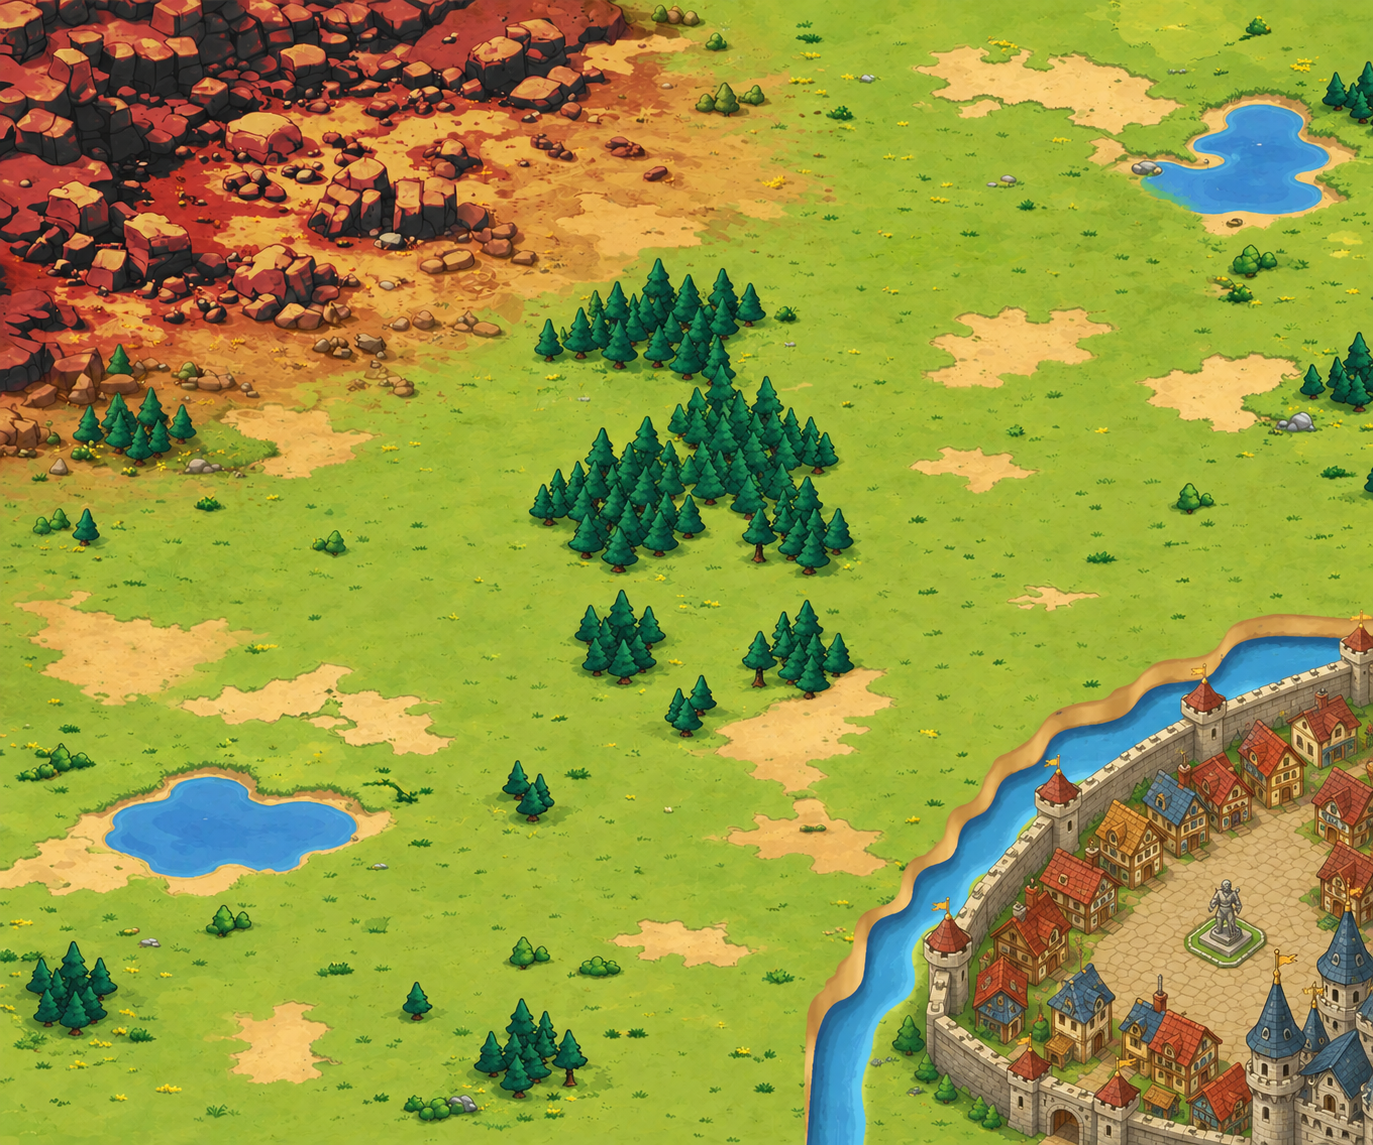
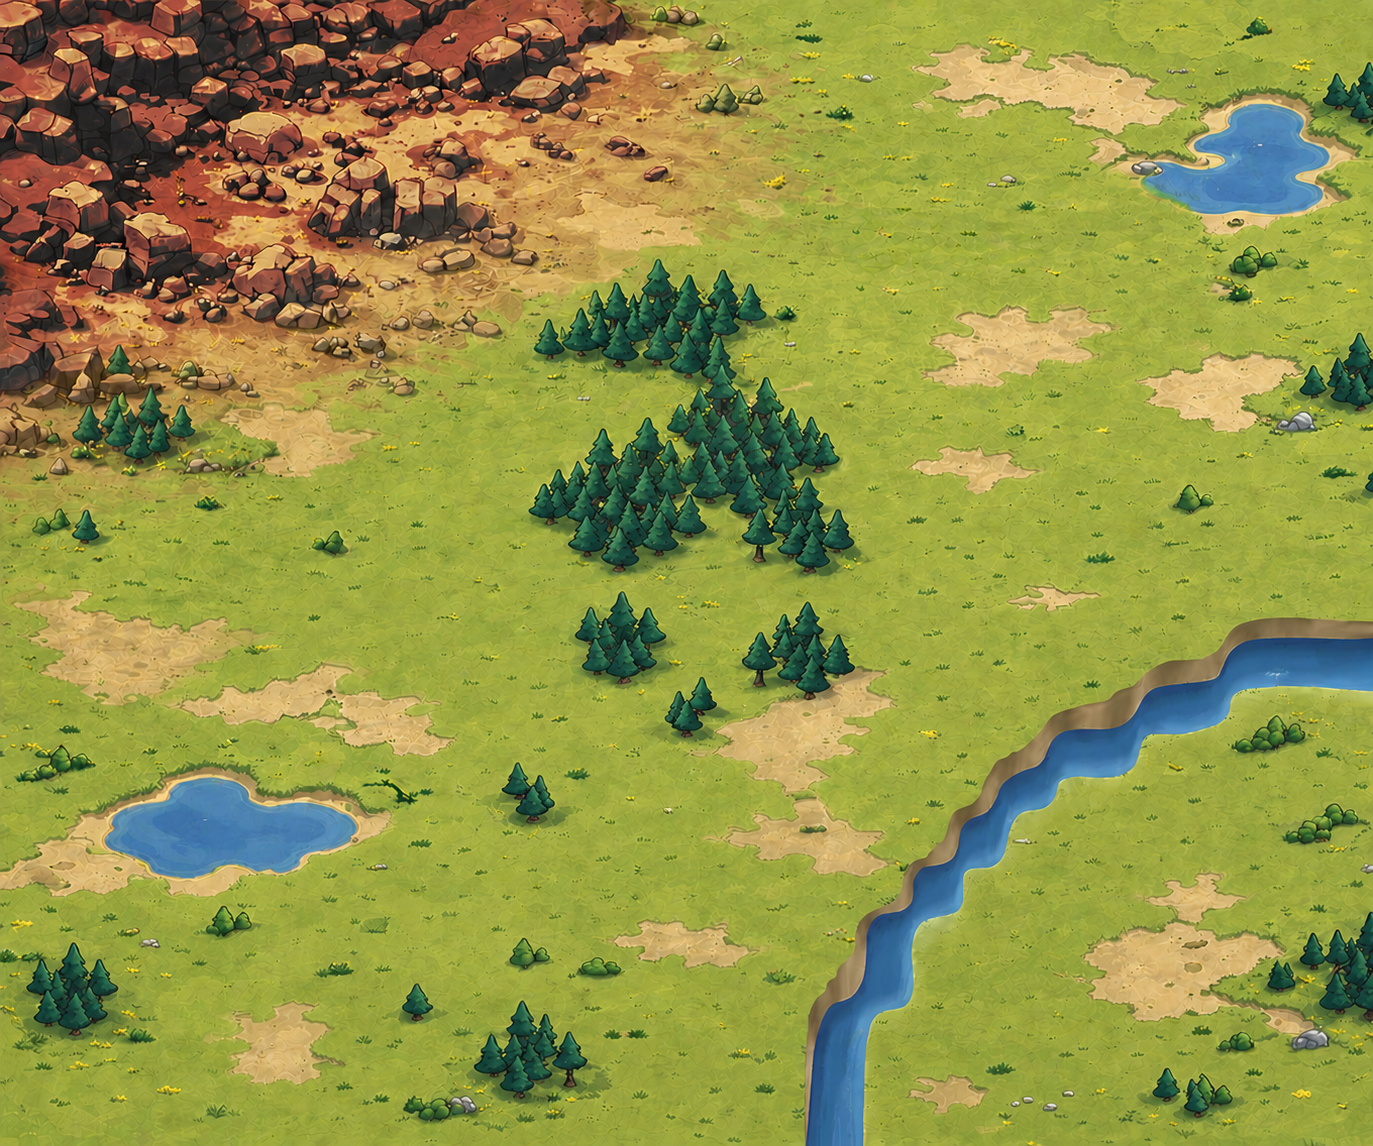
Бэкграунд верхнего мира снова map-plateau.png

diff --git a/js/05_pawns_and_ui.js b/js/05_pawns_and_ui.js
@@ -749,7 +749,7 @@ const WORLD_LAYER_TROLL_CAVE = "troll-cave";
 const TROLL_CAVE_VIEW_ZOOM = 1.28;
 let lastVisibleWorldLayoutLayer = null;
 const TIME_OF_DAY_CYCLE = [
-  { key: "day",     label: "День",   duration: 40, bg: 'url("assets/map-plateau.jpg")' },
+  { key: "day",     label: "День",   duration: 40, bg: 'url("assets/map-plateau.png")' },
   { key: "evening", label: "Вечер",  duration: 15, bg: 'url("assets/backgrounds/evening_bg.png")' },
   { key: "night",   label: "Ночь",   duration: 25, bg: 'url("assets/backgrounds/night_bg.png")' },
   { key: "morning", label: "Утро",   duration: 15, bg: 'url("assets/backgrounds/morning_bg.png")' },

diff --git a/styles.css b/styles.css
@@ -122,7 +122,7 @@
       position: relative;
       width: auto;
       background: #1a2639;
-      background-image: url("assets/map-plateau.jpg");
+      background-image: url("assets/map-plateau.png");
       background-size: 100% 100%;
       background-position: 0 0;
       background-repeat: no-repeat;
